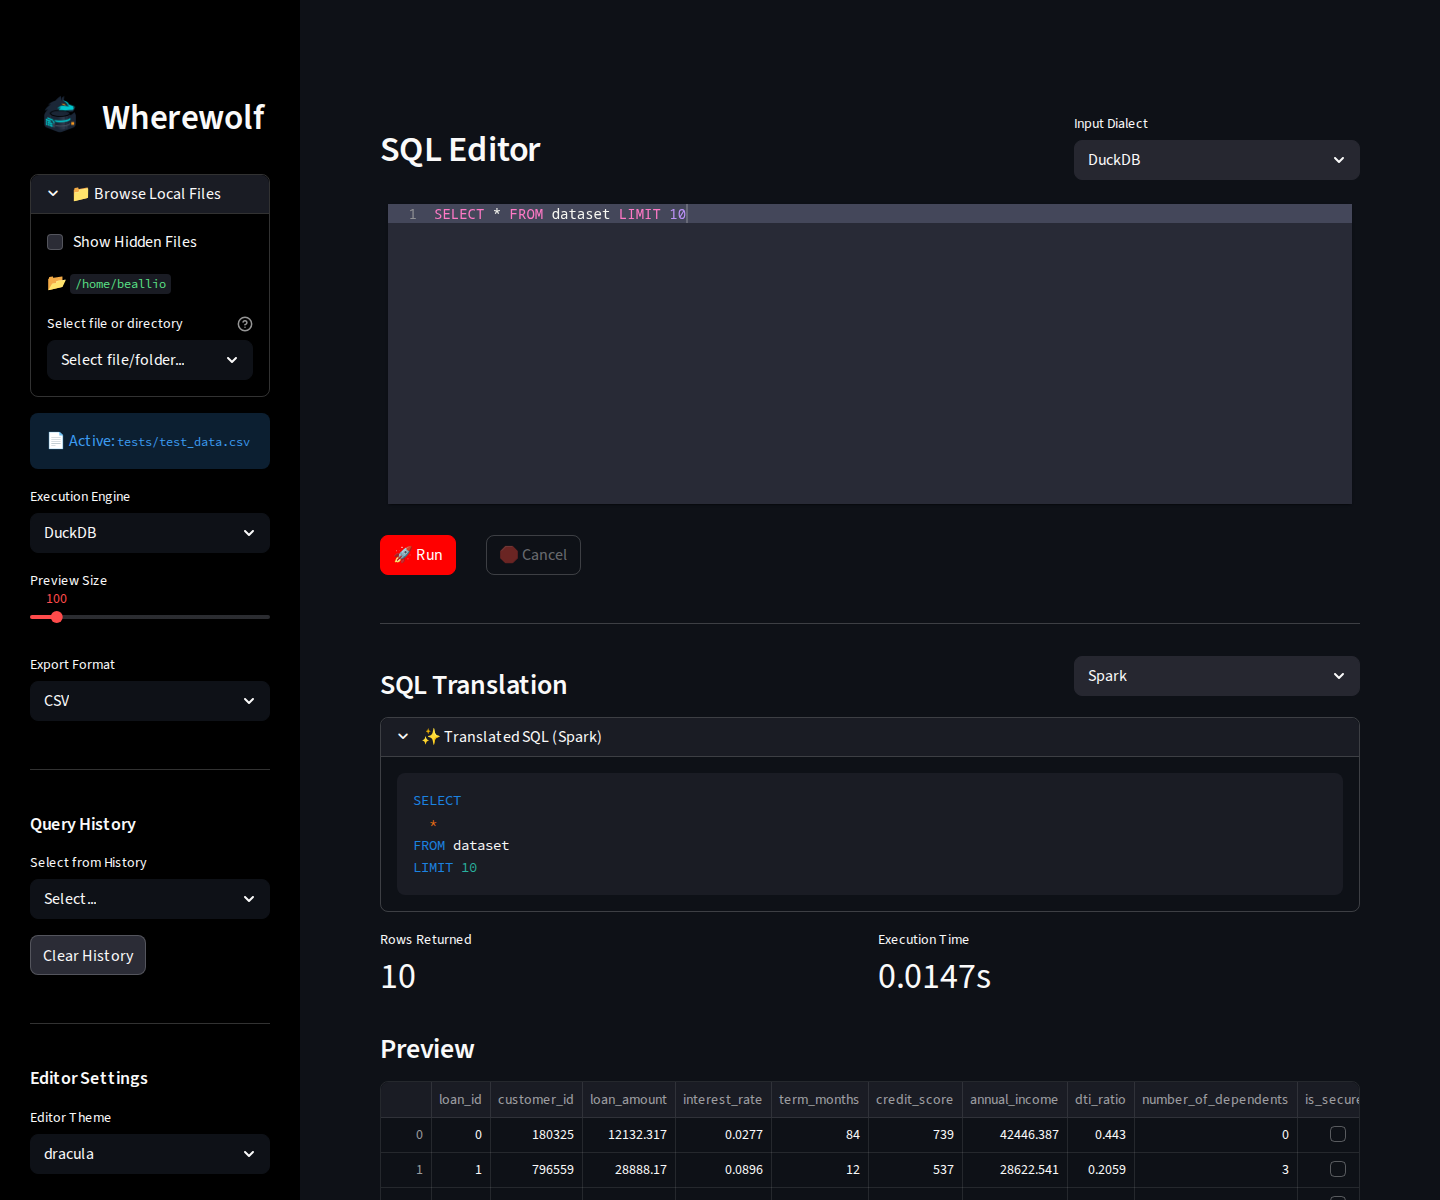
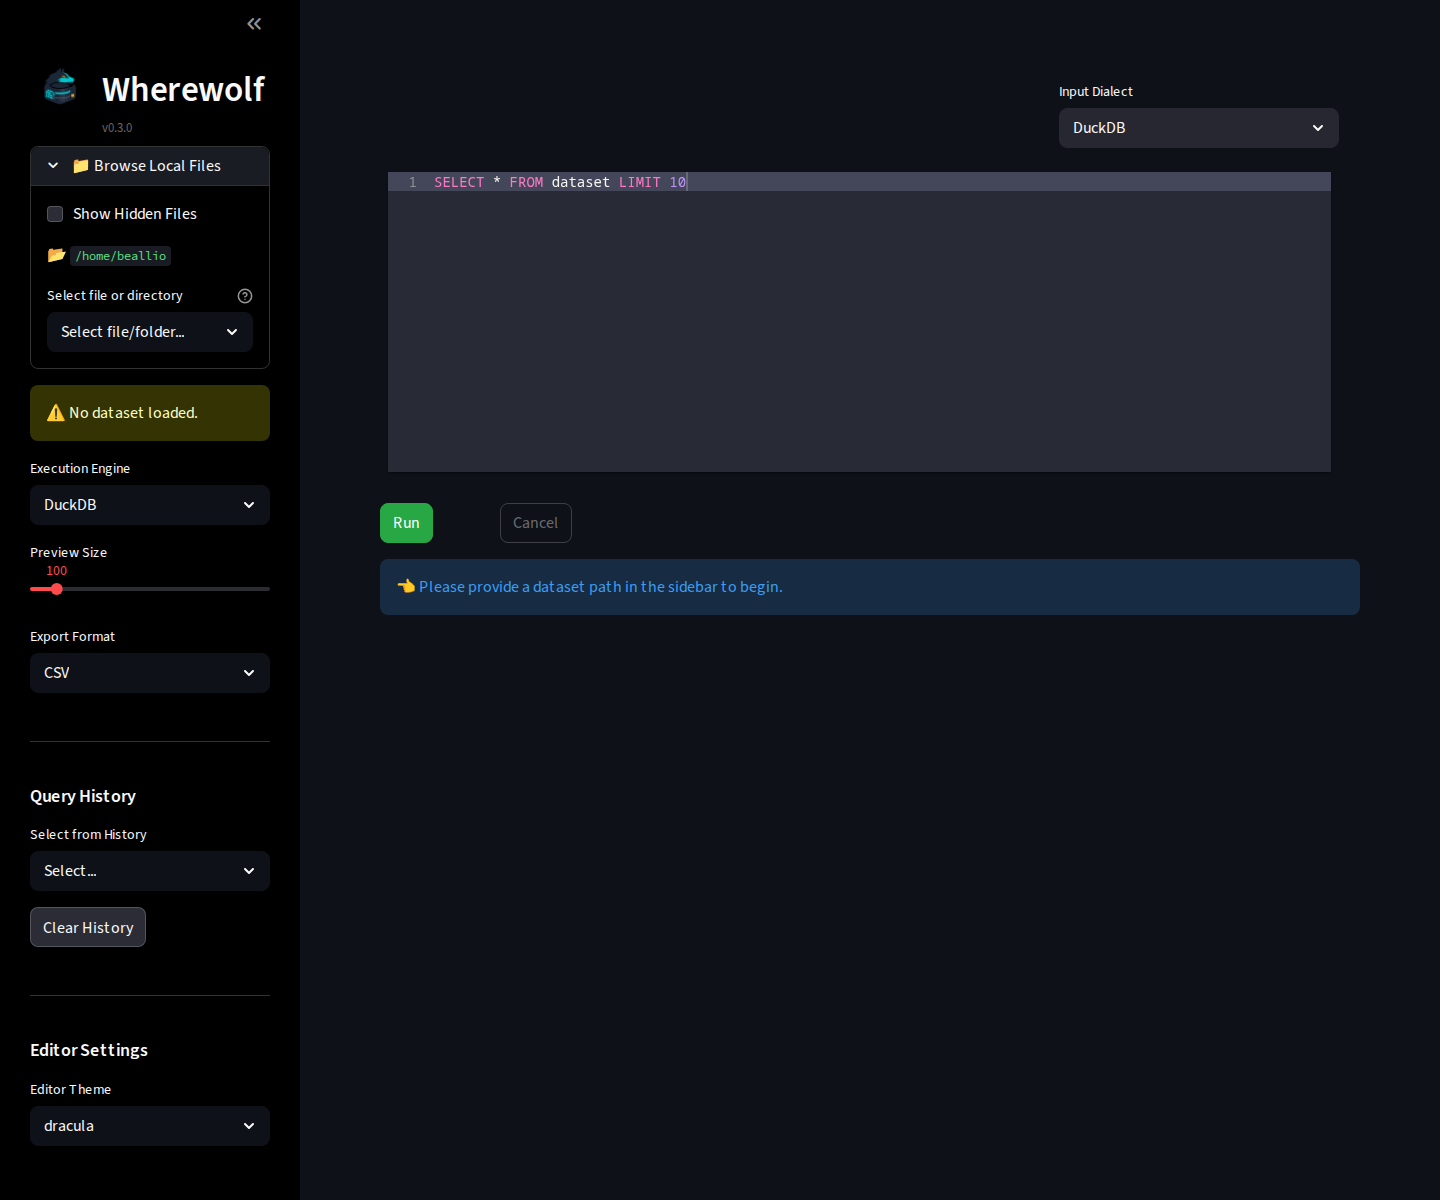
Docs: Update README features and screenshot for v0.3.0

diff --git a/README.md b/README.md
@@ -1,22 +1,24 @@
 # Wherewolf
 
-<img src="https://raw.githubusercontent.com/beallio/wherewolf/main/src/wherewolf/assets/img/wherewolf_banner.png?cacheBuster=5" width="100%">
+<img src="https://raw.githubusercontent.com/beallio/wherewolf/main/src/wherewolf/assets/img/wherewolf_banner.png?cacheBuster=6" width="100%">
 
-[![CI](https://github.com/beallio/wherewolf/actions/workflows/ci.yml/badge.svg?cacheBuster=5)](https://github.com/beallio/wherewolf/actions/workflows/ci.yml)
-[![PyPI version](https://img.shields.io/pypi/v/wherewolf.svg?cacheBuster=5)](https://pypi.org/project/wherewolf/)
-[![License: MIT](https://img.shields.io/badge/License-MIT-yellow.svg?cacheBuster=5)](https://opensource.org/licenses/MIT)
+[![CI](https://github.com/beallio/wherewolf/actions/workflows/ci.yml/badge.svg?cacheBuster=6)](https://github.com/beallio/wherewolf/actions/workflows/ci.yml)
+[![PyPI version](https://img.shields.io/pypi/v/wherewolf.svg?cacheBuster=6)](https://pypi.org/project/wherewolf/)
+[![License: MIT](https://img.shields.io/badge/License-MIT-yellow.svg?cacheBuster=6)](https://opensource.org/licenses/MIT)
 
 A production-grade, local SQL workbench for querying files (CSV, Parquet, JSON) using DuckDB or Spark.
 
 ## Features
-- **Multi-Engine Support:** Execute SQL via DuckDB (local) or Spark (local[*]).
+- **Multi-Engine Support:** Execute SQL via DuckDB (local) or Spark (local[*]). Native support for CSV, Parquet, JSON, and Excel (`.xlsx`, `.xls`).
+- **📊 Schema & Metadata HUD:** Instant visibility of column names and data types as soon as a file is loaded.
 - **SQL Translation:** Real-time translation between DuckDB and SparkSQL dialects using SQLGlot.
+- **Modern UI:** Distraction-free interface with a hidden toolbar, reduced whitespace, and clear visual hierarchy.
 - **Safe Preview:** Scrollable results limited to 1000 rows.
 - **Query History:** Persists past queries in `~/.wherewolf/history.json`.
 - **Export:** Download query results as CSV, Excel, or Parquet.
 - **Execution Metrics:** Tracks row count and execution time.
 
-![Wherewolf Screenshot](https://raw.githubusercontent.com/beallio/wherewolf/main/src/wherewolf/assets/img/screenshot.png?cacheBuster=5)
+![Wherewolf Screenshot](https://raw.githubusercontent.com/beallio/wherewolf/main/src/wherewolf/assets/img/screenshot.png?cacheBuster=6)
 
 ## Installation
 
